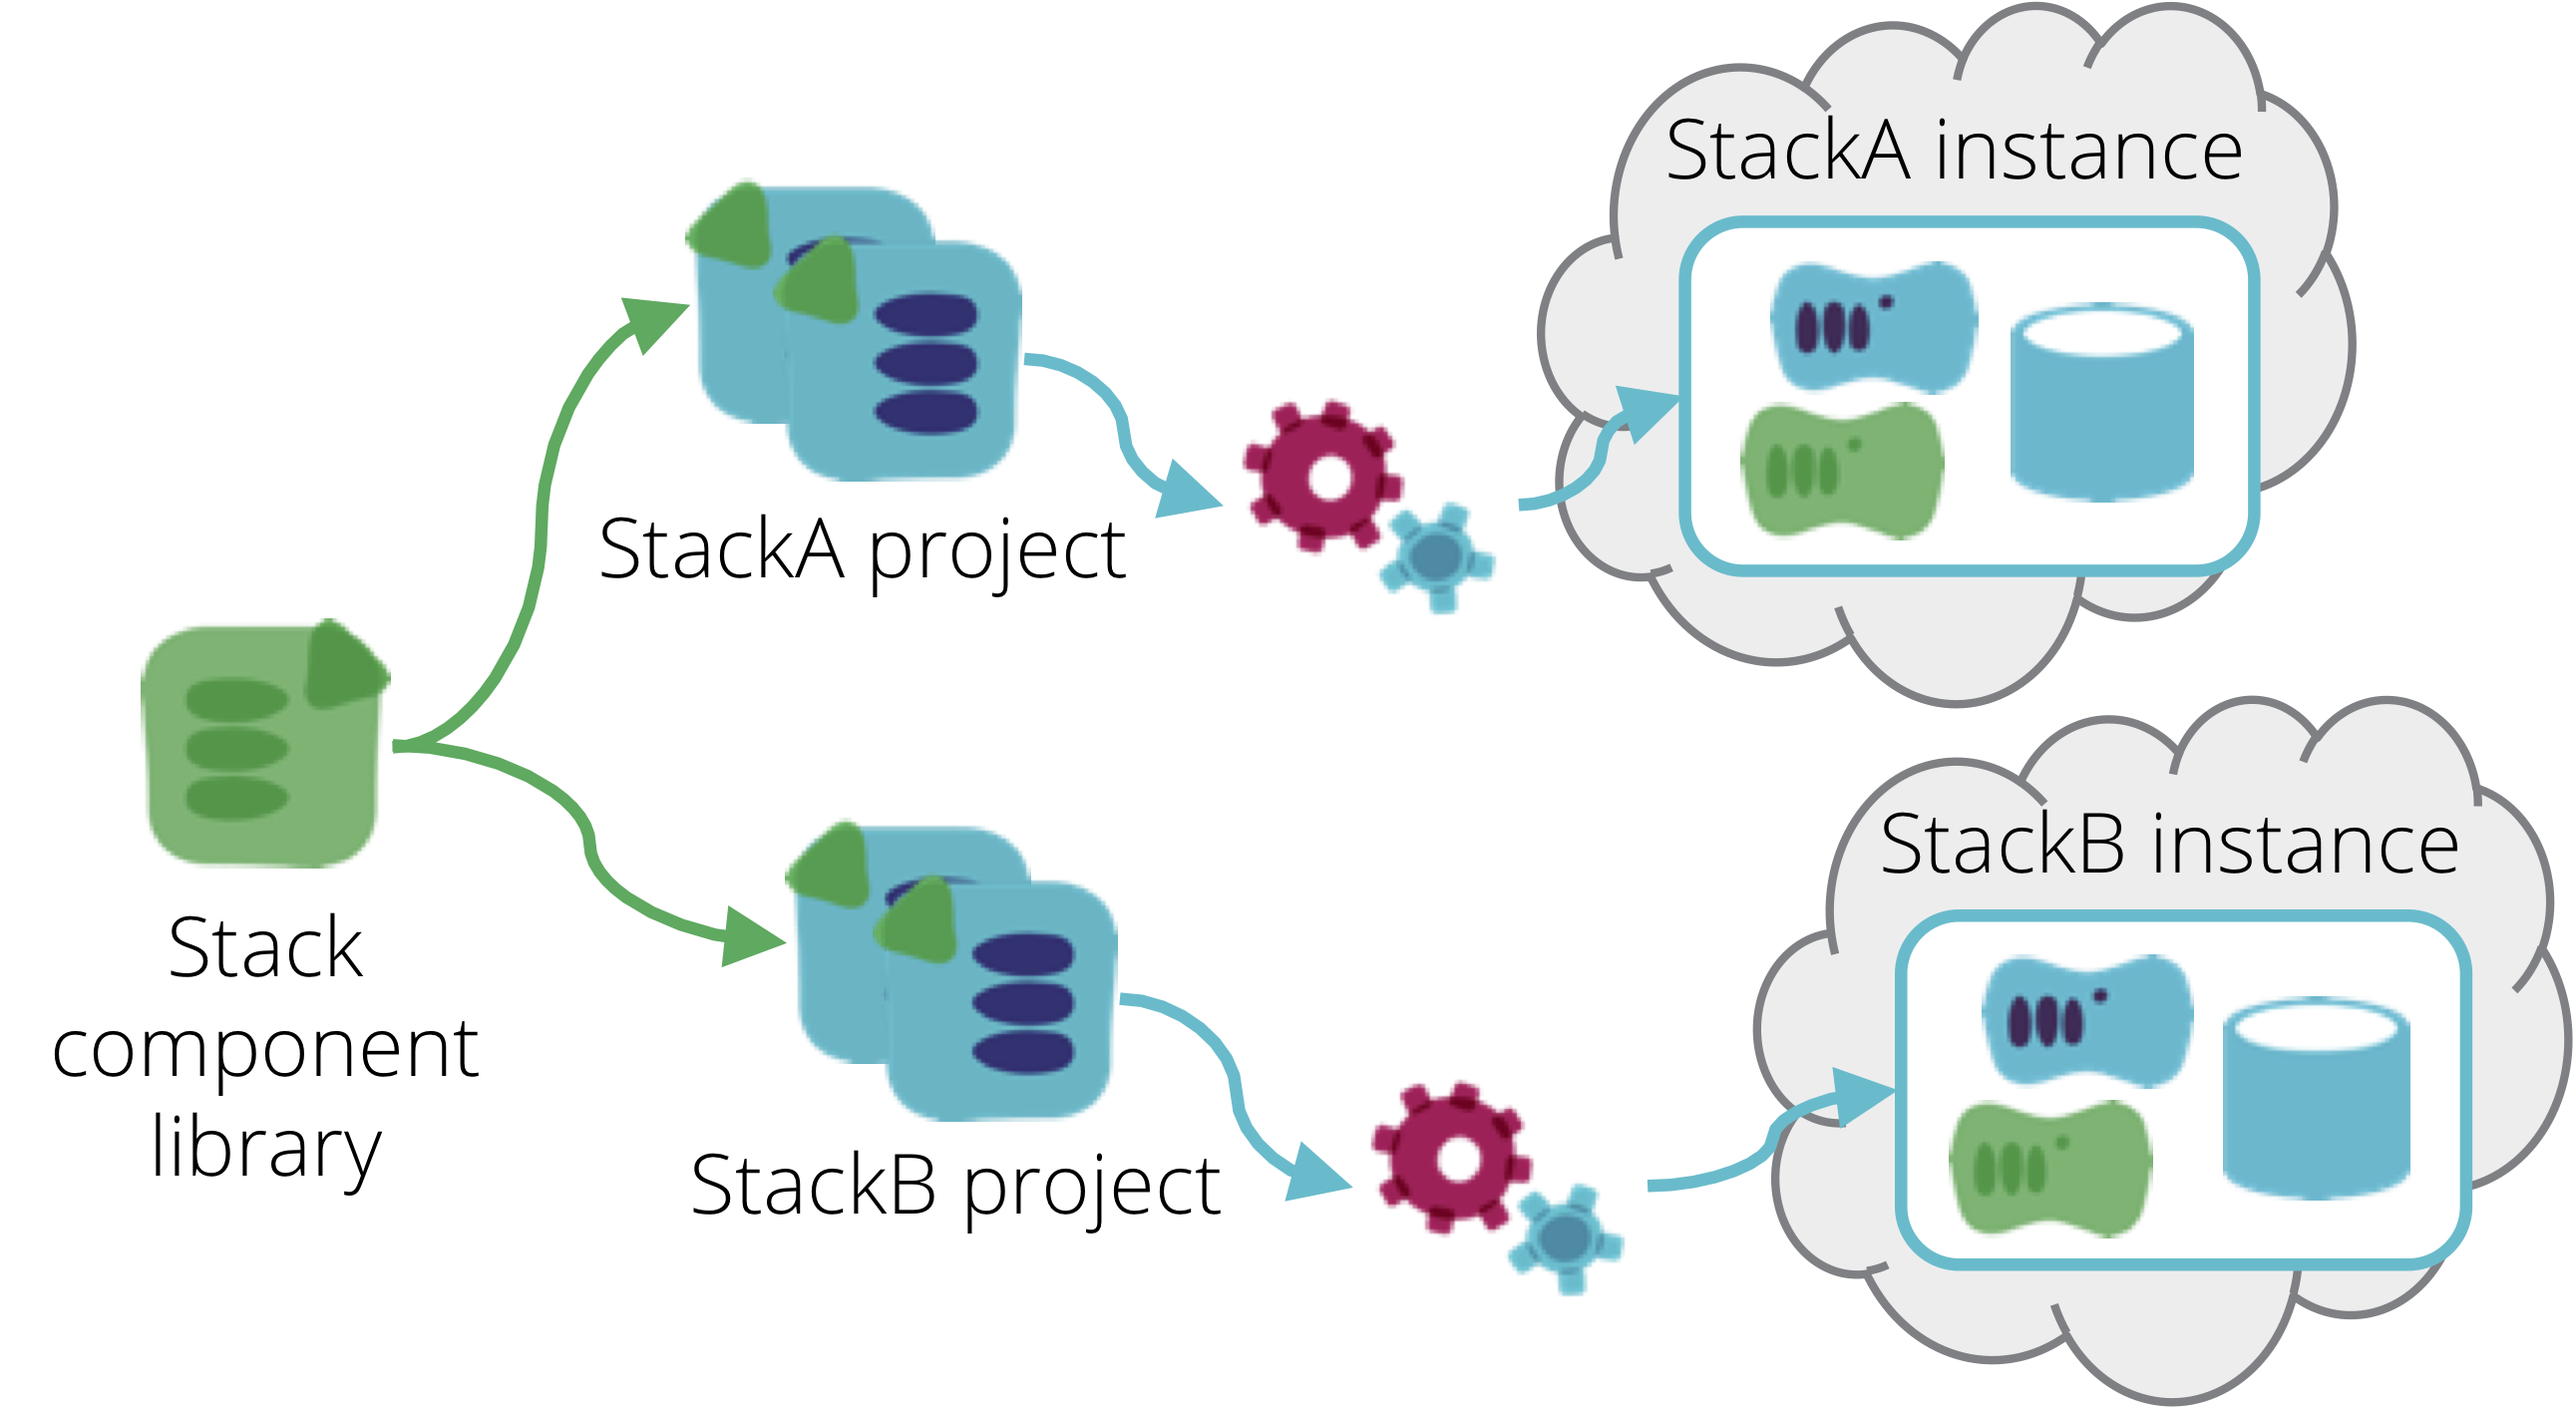
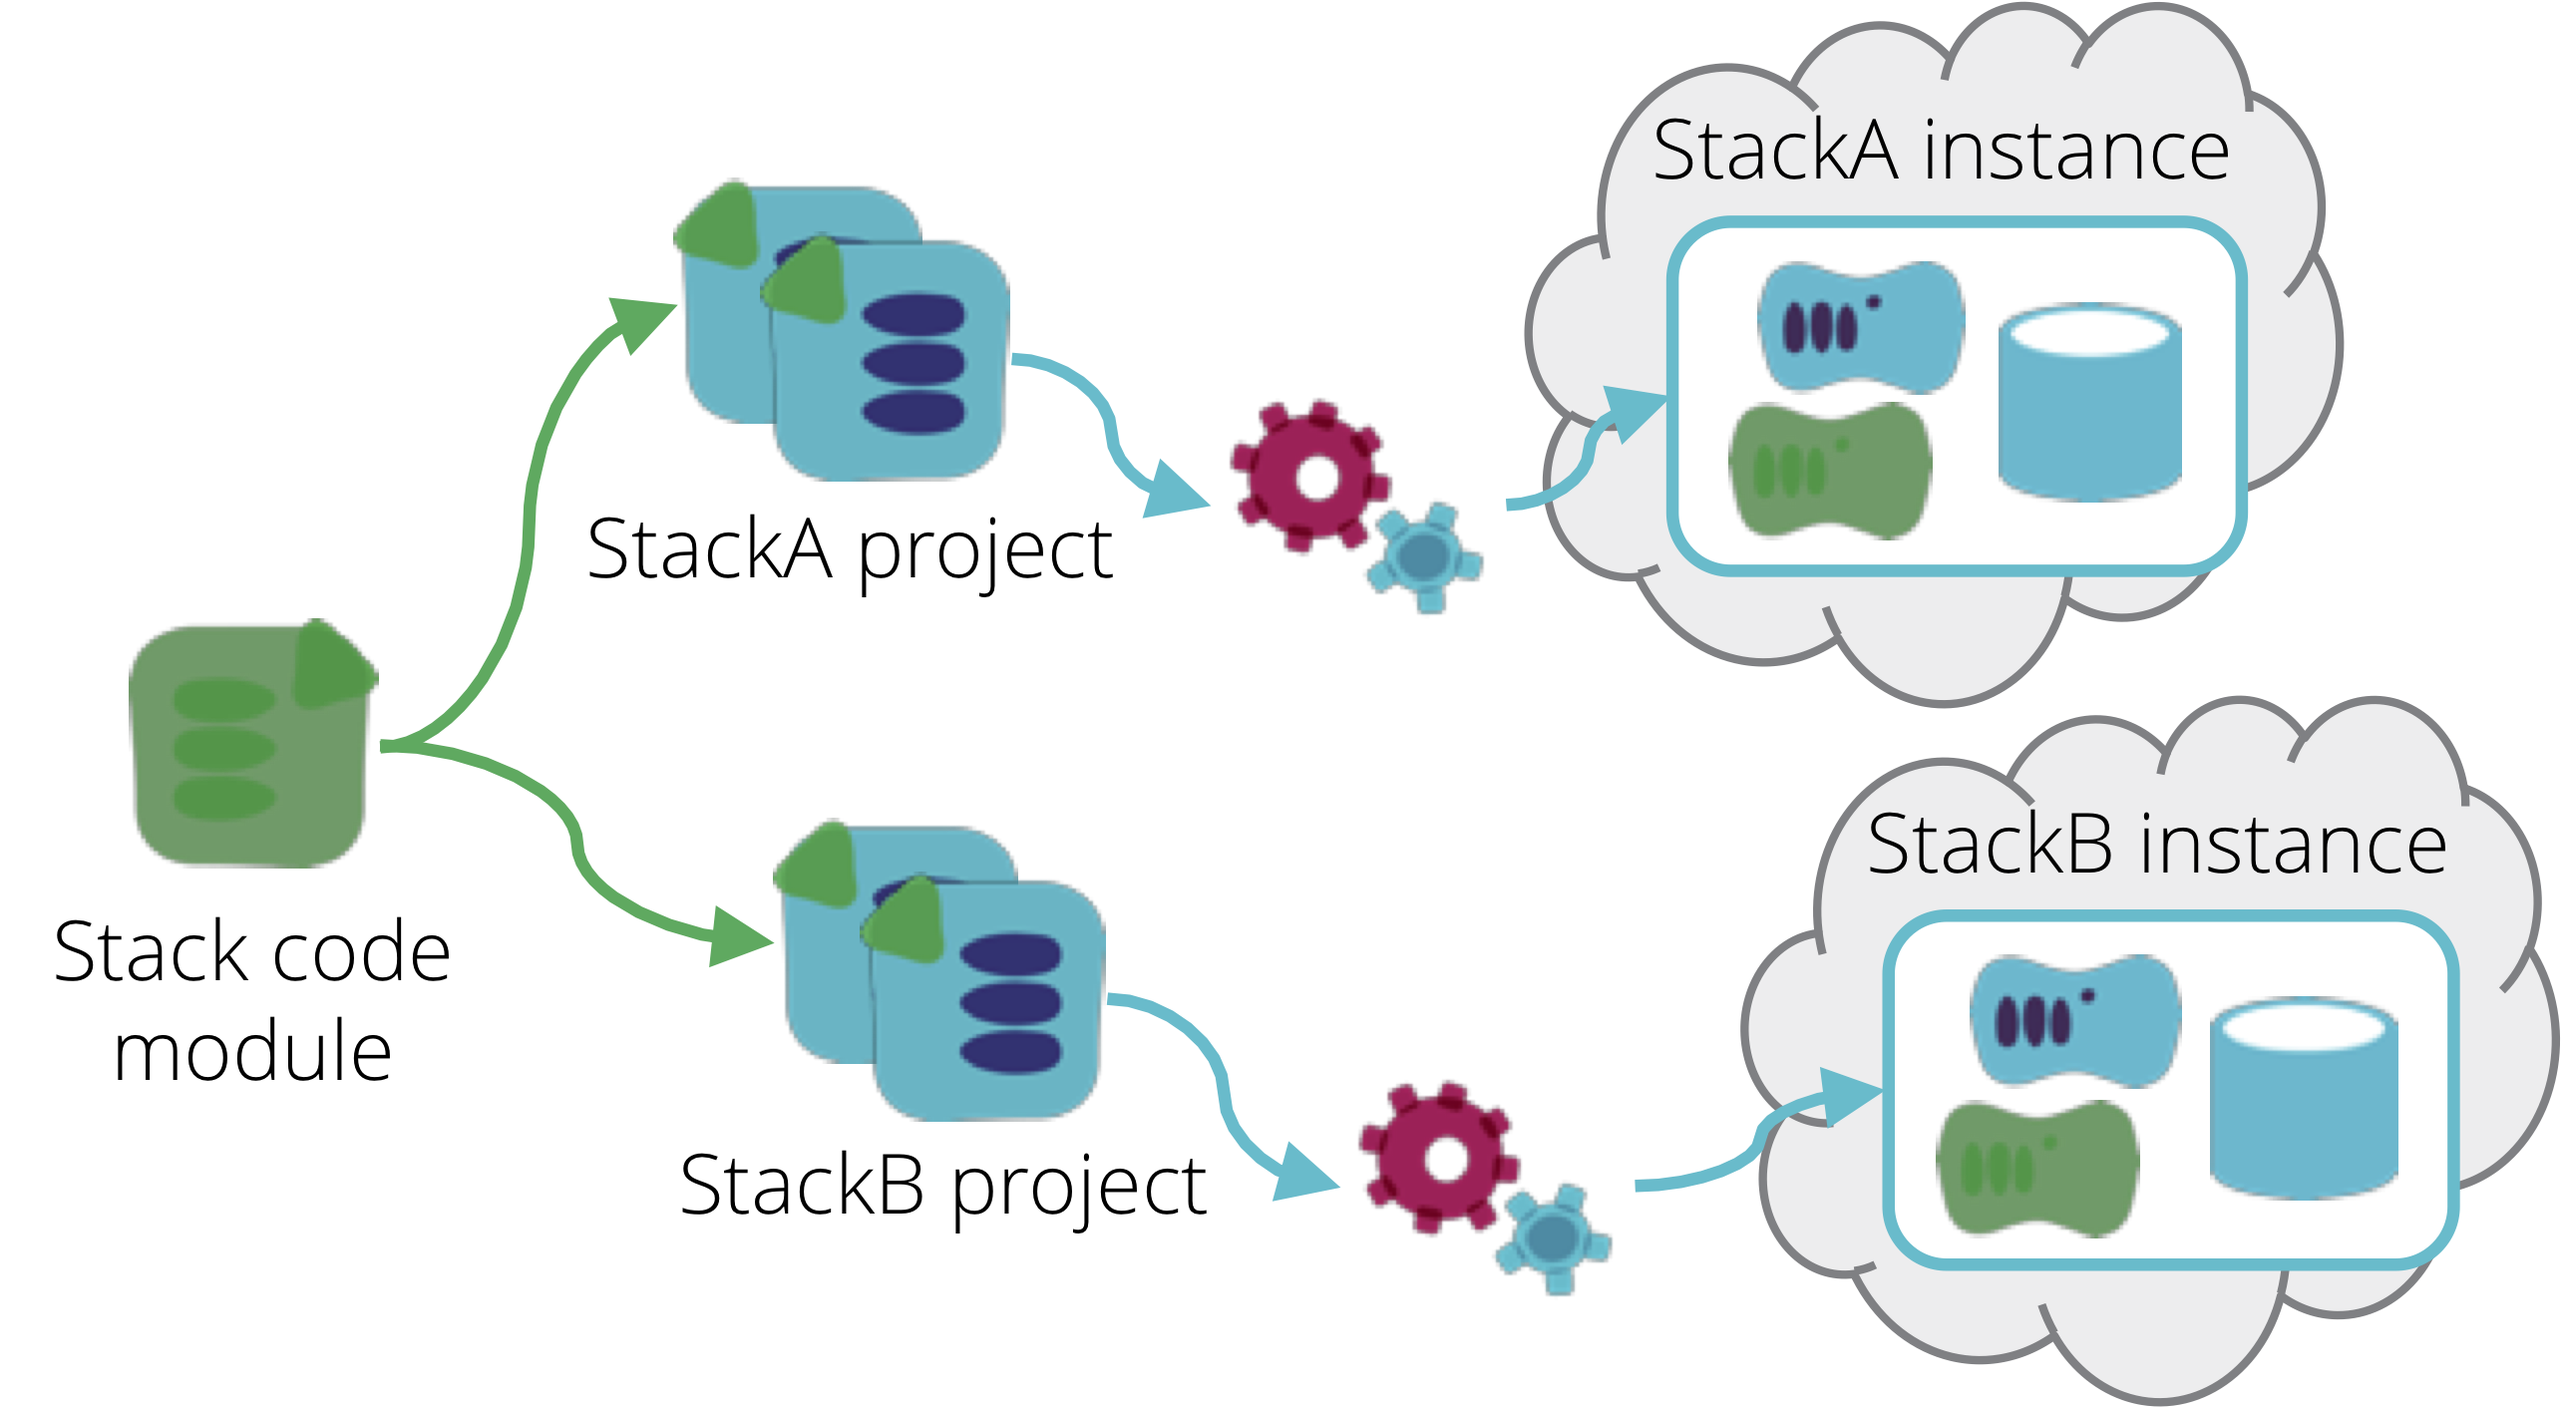
Removed reference to library stack

diff --git a/_patterns/stack-concept/stack-code-module.md b/_patterns/stack-concept/stack-code-module.md
@@ -21,8 +21,6 @@ Most stack management tools implement modularization for re-use. Terraform has [
 
 The use case for stack code modules is to re-use code across stacks, and in some cases within stacks. For example, a stack that includes a pool of web servers and a pool of application servers could re-use a "load balancer" module to create two load balancer VIPs, one in front of each server pool.
 
-A stack code module has some similarities to a [library stack](library-stack.html). A library stack normally represents a complete stack, or nearly complete stack, which is customized for different purposes, whereas a stack code module is typically a smaller unit of code that is included within a larger stack project. This distinction is subjective in theory, but in practice code modules are a feature of stack management tools, whereas library stacks tend to be a usage pattern implemented by teams writing infrastructure code.
-
 The [wrapper stack](/patterns/stack-configuration/wrapper-stack.html) pattern makes use of stack code modules in a variation of the library stack and [template stack](template-stack.html) pattern.
 
 Other types of infrastructure tools, for example server configuration tools like Ansible, Chef, and Puppet, also have module or library functionality to enable shared code. This pattern, however, specifically refers to sharing code between stack projects.
